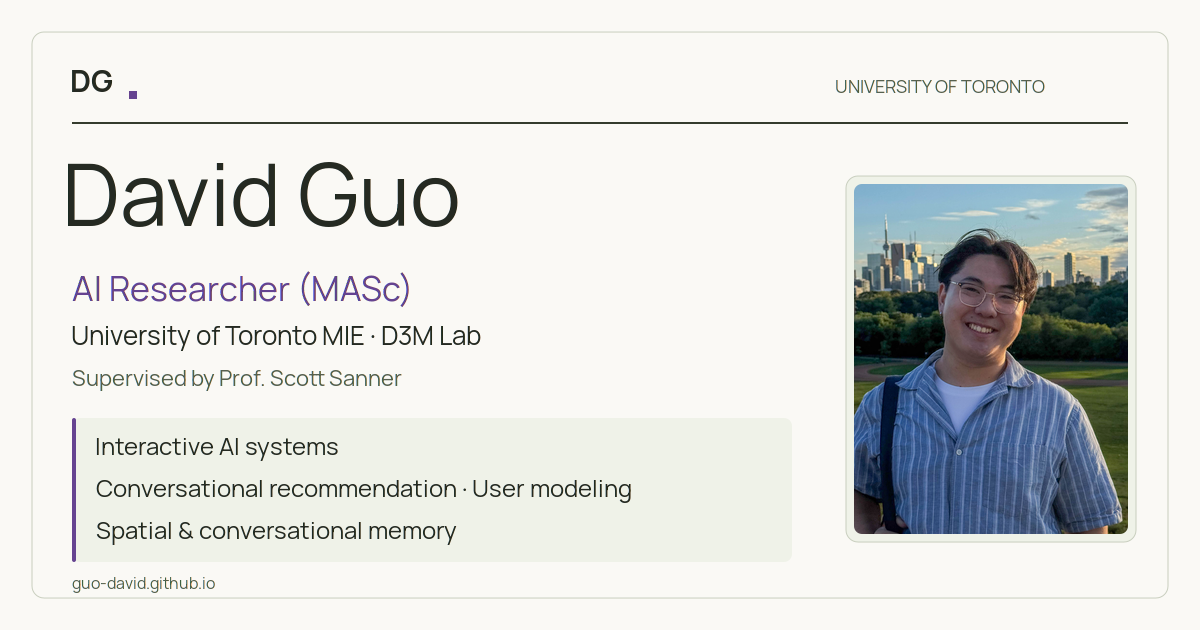
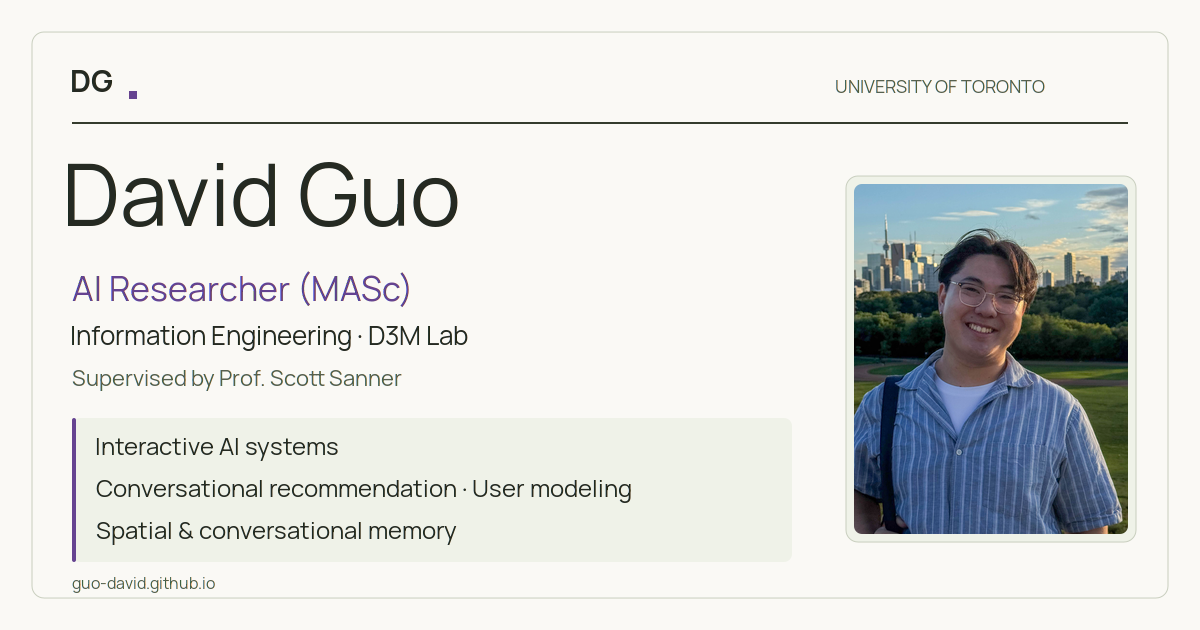
Update program affiliation to Information Engineering

Changed region(s): [[0.0617, 0.5127, 0.4008, 0.573]]

diff --git a/app/layout.tsx b/app/layout.tsx
@@ -10,7 +10,7 @@ import { LINKS } from './constants';
 const siteUrl = 'https://guo-david.github.io/';
 const title = 'David Guo | AI Researcher | University of Toronto';
 const description =
-  'David Guo is an AI researcher (MASc) at the University of Toronto’s D3M Lab, studying interactive AI systems, recommendation, user modeling, and spatial & conversational memory.';
+  'David Guo is an AI researcher and MASc student in Information Engineering at the University of Toronto’s D3M Lab, studying interactive AI systems, recommendation, user modeling, and spatial & conversational memory.';
 
 export const metadata: Metadata = {
   metadataBase: new URL(siteUrl),
@@ -28,7 +28,7 @@ export const metadata: Metadata = {
         url: '/social-preview.png',
         width: 1200,
         height: 630,
-        alt: 'David Guo — AI Researcher (MASc), University of Toronto MIE, D3M Lab. Interactive AI systems, conversational recommendation, user modeling, spatial & conversational memory, and human–AI interaction.',
+        alt: 'David Guo — AI Researcher (MASc), University of Toronto, Information Engineering, D3M Lab. Interactive AI systems, conversational recommendation, user modeling, spatial & conversational memory, and human–AI interaction.',
       },
     ],
   },
@@ -39,7 +39,7 @@ export const metadata: Metadata = {
     images: [
       {
         url: '/social-preview.png',
-        alt: 'David Guo — AI Researcher (MASc), University of Toronto MIE, D3M Lab.',
+        alt: 'David Guo — AI Researcher (MASc), University of Toronto, Information Engineering, D3M Lab.',
       },
     ],
   },
@@ -58,7 +58,7 @@ const person = {
     { '@type': 'CollegeOrUniversity', name: 'University of Toronto' },
     {
       '@type': 'Organization',
-      name: 'Department of Mechanical & Industrial Engineering',
+      name: 'Information Engineering',
       parentOrganization: { '@type': 'CollegeOrUniversity', name: 'University of Toronto' },
     },
     { '@type': 'Organization', name: 'Data-Driven Decision Making (D3M) Lab', url: LINKS.lab },

diff --git a/app/page.tsx b/app/page.tsx
@@ -58,10 +58,10 @@ export default function HomePage() {
         <main id="main">
           <section className={styles.intro} aria-labelledby="name">
             <div className={styles.bio}>
-              <div className={styles.eyebrow}>UNIVERSITY OF TORONTO MIE · AI RESEARCHER (MASc)</div>
+              <div className={styles.eyebrow}>UNIVERSITY OF TORONTO · INFORMATION ENGINEERING</div>
               <h1 id="name">David Guo</h1>
               <p className={styles.discipline}>Interactive AI systems &amp; human–AI interaction</p>
-              <p>I’m an AI researcher and MASc student in the <a href={LINKS.lab}>Data-Driven Decision Making (D3M) Lab</a> at the University of Toronto’s Department of Mechanical &amp; Industrial Engineering, supervised by Prof. Scott Sanner, working on machine learning for interactive AI systems.</p>
+              <p>I’m an AI researcher and MASc student in Information Engineering at the University of Toronto’s <a href={LINKS.lab}>D3M Lab</a>, supervised by Prof. Scott Sanner, working on machine learning for interactive AI systems.</p>
               <p>My work spans <strong>conversational recommendation</strong>, <strong>user modeling</strong>, and <strong>spatial &amp; conversational memory</strong>, combining empirical studies of human–AI interaction with building and evaluating systems.</p>
               <div className={styles.links} aria-label="Professional links">
                 <a href={LINKS.cv}>CV <IconArrowUpRight className={styles.linkIcon} size={14} stroke={1.7} aria-hidden="true" focusable="false" /></a>

diff --git a/DESIGN.md b/DESIGN.md
@@ -1,7 +1,8 @@
 # Website decisions
 
-Updated 2026-10-08. Apply these decisions to future homepage and design-study edits unless David changes them.
+Updated 2026-10-21. Apply these decisions to future homepage and design-study edits unless David changes them.
 
+- Program wording update (2026-10-21, supersedes MIE/department wording below): header “UNIVERSITY OF TORONTO · INFORMATION ENGINEERING”. Bio opens “I’m an AI researcher and MASc student in Information Engineering at the University of Toronto’s D3M Lab, supervised by Prof. Scott Sanner…”; preserve the lab link, second paragraph, and research focus. Use Information Engineering in metadata, social previews, and the downloadable CV’s M.A.Sc. education entry.
 - Profile wording update (2026-10-16, supersedes the older bio wording below): align with David’s LinkedIn positioning, “AI Researcher (MASc) @ UofT MIE | D3M Lab · Prof. Scott Sanner.” Research areas: interactive AI systems, conversational recommendation, user modeling, spatial & conversational memory, and human–AI interaction. Keep the two-paragraph bio, lab link, and supervisor attribution; use “spatial & conversational memory” in place of “memory for Agentic systems.” Search title: “David Guo | AI Researcher | University of Toronto.” Keep homepage, search/social descriptions, and Person metadata consistent with this positioning.
 - Social preview (2026-10-16): use `public/social-preview.png`, a 1200 × 630 light sage/lilac card in Manrope with David’s name, role, affiliation, supervisor, a compact research-topic summary, and the existing homepage portrait on the right. Regenerate with `node scripts/generate-social-preview.cjs`; use it for Open Graph and large-image Twitter cards. Dedicated paper pages are deferred; David is handling Search Console and external profile updates.
 
